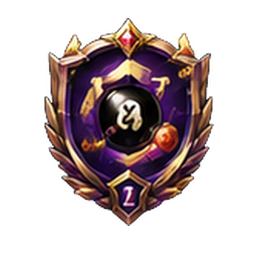
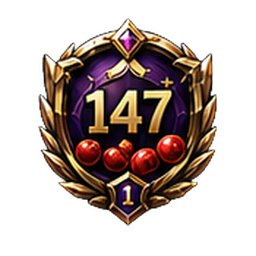
style: 更新成就徽章视觉

diff --git a/docs/career-achievements-v2.md b/docs/career-achievements-v2.md
@@ -1,0 +1,128 @@
+# 生涯成就 V2 目录
+
+当前正式启用 **25 项永久生涯成就**，包括 **15 项通用里程碑**和 **10 项球种专属绝技**。此外，系统保留 **3 项独立赛季挑战**。
+
+## 基本规则
+
+- 生涯成就和进度属于账号级永久资产，不随赛季结算、切换或重置而清零。
+- `game_type = 0` 的通用成就跨斯诺克、九球追分、中式八球和美式九球累计。
+- 球种专属成就只统计与定义球种一致的进度，不同球种之间不会串进度。
+- 报名正式赛事和完成正式赛事是两个独立阶段。
+- 只有关键里程碑发放称号；当前 25 项成就中有 10 项提供称号奖励。
+
+## 一、通用生涯成就
+
+共 15 项，跨所有支持球种累计。
+
+### 1. 对局里程碑
+
+| Key | 成就 | 达成条件 | 奖励称号 |
+|---|---|---|---|
+| `match_1` | 初入战局 | 累计完成 1 场有效比赛 | — |
+| `match_10` | 渐入佳境 | 累计完成 10 场有效比赛 | — |
+| `match_50` | 五十征程 | 累计完成 50 场有效比赛 | — |
+| `match_100` | 百战磨砺 | 累计完成 100 场有效比赛 | 资深球手 |
+
+### 2. 胜场里程碑
+
+| Key | 成就 | 达成条件 | 奖励称号 |
+|---|---|---|---|
+| `wins_1` | 首战告捷 | 累计赢下 1 场有效比赛 | — |
+| `wins_10` | 十胜起步 | 累计赢下 10 场有效比赛 | 胜场新星 |
+| `wins_50` | 五十胜将 | 累计赢下 50 场有效比赛 | — |
+| `wins_100` | 百胜丰碑 | 累计赢下 100 场有效比赛 | 百胜名将 |
+
+### 3. 连胜里程碑
+
+连胜成就统计个人最高连续胜场，而不是累计胜场。
+
+| Key | 成就 | 达成条件 | 奖励称号 |
+|---|---|---|---|
+| `streak_3` | 状态正佳 | 个人最高连胜达到 3 场 | — |
+| `streak_5` | 势如破竹 | 个人最高连胜达到 5 场 | 连胜猎手 |
+| `streak_10` | 十连制霸 | 个人最高连胜达到 10 场 | 连胜主宰 |
+
+### 4. 赛事历程
+
+| Key | 成就 | 达成条件 | 奖励称号 |
+|---|---|---|---|
+| `tournament_join_1` | 赛事启程 | 累计报名 1 场正式赛事 | — |
+| `tournament_finish_1` | 初登赛场 | 累计完成 1 场正式赛事并形成有效名次 | — |
+| `tournament_finish_10` | 久经赛场 | 累计完成 10 场正式赛事 | 赛事常客 |
+| `tournament_champion_1` | 初次登顶 | 累计获得 1 次正式赛事冠军 | 冠军球手 |
+
+## 二、球种专属绝技
+
+共 10 项，只累计对应球种的进度。
+
+### 1. 斯诺克
+
+| Key | 成就 | 达成条件 | 奖励称号 |
+|---|---|---|---|
+| `snooker_break_50_1` | 半百一杆 | 在斯诺克对局中打出 1 次单杆 50+ | — |
+| `snooker_break_100_1` | 破百时刻 | 在斯诺克对局中打出 1 次单杆 100+ | — |
+| `break_147_1` | 满分时刻 | 在斯诺克对局中打出 1 次单杆 147 | 满分王 |
+
+### 2. 九球追分
+
+| Key | 成就 | 达成条件 | 奖励称号 |
+|---|---|---|---|
+| `chasing_golden_break_1` | 小金初现 | 在九球追分对局中打出 1 次小金 | — |
+| `chasing_nine_on_break_1` | 大金降临 | 在九球追分对局中打出 1 次大金 | — |
+
+### 3. 中式八球
+
+| Key | 成就 | 达成条件 | 奖励称号 |
+|---|---|---|---|
+| `continue_clear_1` | 初次接清 | 在中式八球对局中打出 1 次接清 | — |
+| `break_clear_1` | 初次炸清 | 在中式八球对局中打出 1 次炸清 | 清台猎手 |
+| `break_clear_20` | 全台掌控 | 在中式八球对局中累计打出 20 次炸清 | 炸清大师 |
+
+### 4. 美式九球
+
+| Key | 成就 | 达成条件 | 奖励称号 |
+|---|---|---|---|
+| `american_golden_break_1` | 小金初现 | 在美式九球对局中打出 1 次小金 | — |
+| `american_nine_on_break_1` | 大金降临 | 在美式九球对局中打出 1 次大金 | — |
+
+九球追分和美式九球虽然使用相同的展示名称，但属于两套独立成就。例如九球追分的小金不会推进美式九球的“小金初现”。
+
+## 三、奖励称号
+
+当前共有 10 项成就提供称号奖励：
+
+| 成就 | 奖励称号 |
+|---|---|
+| 百战磨砺 | 资深球手 |
+| 十胜起步 | 胜场新星 |
+| 百胜丰碑 | 百胜名将 |
+| 势如破竹 | 连胜猎手 |
+| 十连制霸 | 连胜主宰 |
+| 满分时刻 | 满分王 |
+| 初次炸清 | 清台猎手 |
+| 全台掌控 | 炸清大师 |
+| 久经赛场 | 赛事常客 |
+| 初次登顶 | 冠军球手 |
+
+## 四、赛季挑战
+
+赛季挑战不属于永久生涯成就。它们按照当前赛季和所选球种独立累计，并在新赛季按照既有规则重新开始。
+
+| Key | 挑战 | 达成条件 |
+|---|---|---|
+| `season_matches_20` | 赛季常客 | 本赛季完成 20 场有效排位比赛 |
+| `season_wins_10` | 状态正盛 | 本赛季赢得 10 场有效排位比赛 |
+| `season_tournament_finish_1` | 赛事参与者 | 本赛季完成 1 场正式赛事 |
+
+## 数量汇总
+
+- 永久生涯成就：25 项
+- 通用里程碑：15 项
+- 球种专属绝技：10 项
+- 提供称号奖励的成就：10 项
+- 独立赛季挑战：3 项
+
+## 当前实现来源
+
+- 生涯成就目录：`backend/migrations/20260730154000_redesign_career_achievements.sql`
+- 赛季挑战目录：`backend/internal/logic/achievement/season_challenge_service.go`
